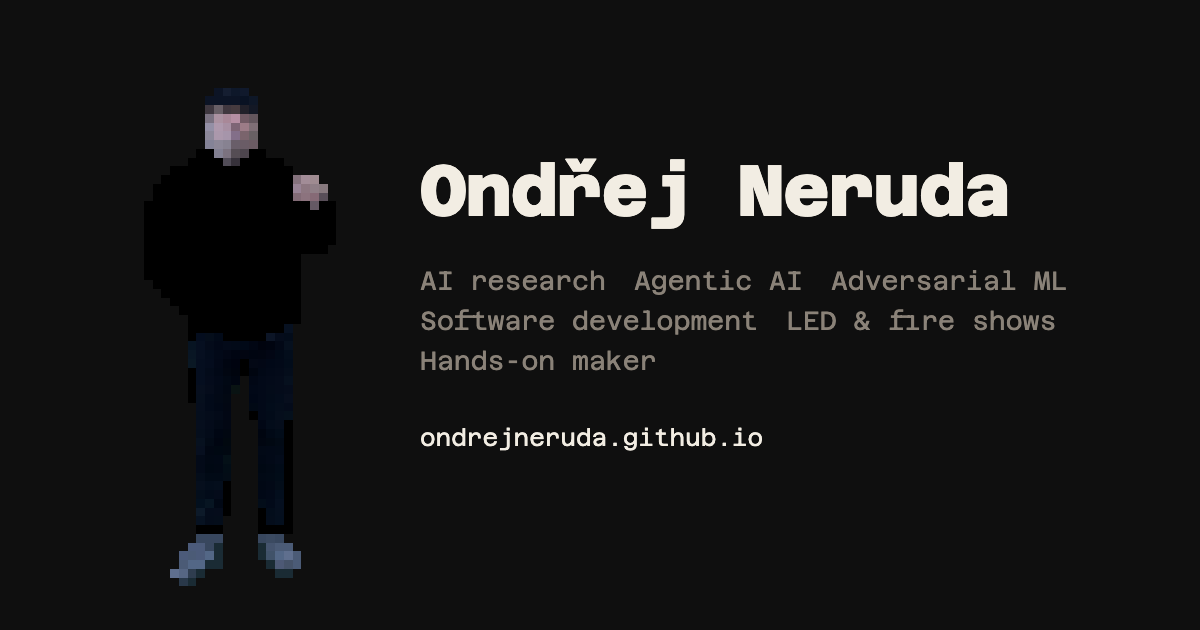
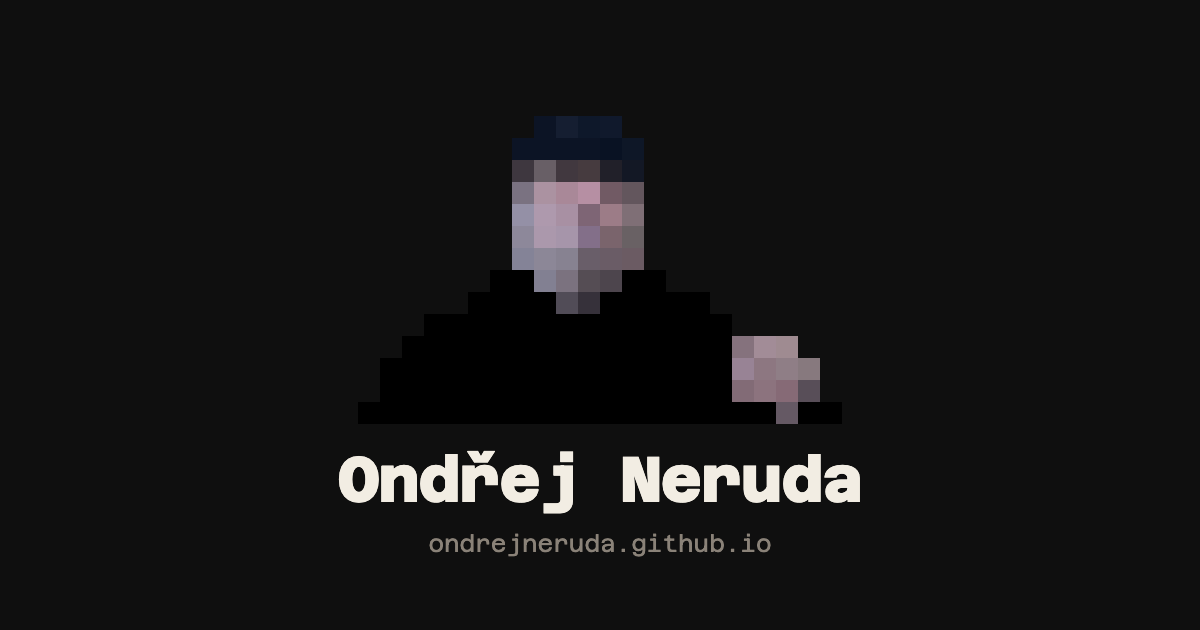
Link preview: centred head-and-shoulders portrait

diff --git a/tools/og-image.html b/tools/og-image.html
@@ -8,36 +8,35 @@
 <link rel="stylesheet" href="../assets/css/tokens.css">
 <style>
   html, body { margin: 0; width: 1200px; height: 630px; overflow: hidden; }
+  /* Centred layout, so apps that crop the preview to a square still show the face. */
   body {
     background: var(--bg);
     color: var(--text);
     font-family: var(--font-mono);
-    display: grid;
-    grid-template-columns: 360px 1fr;
+    display: flex;
+    flex-direction: column;
     align-items: center;
-    padding: 0 80px 0 60px;
-    box-sizing: border-box;
+    justify-content: center;
   }
-  .figure { height: 560px; image-rendering: pixelated; justify-self: center; }
-  h1 { margin: 0; font-size: 72px; font-weight: 800; letter-spacing: -0.02em; line-height: 1.05; }
-  ul { margin: 36px 0 0; padding: 0; list-style: none; display: flex; flex-wrap: wrap; gap: 10px 28px;
-       font-size: 26px; color: var(--text-muted); }
-  .url { margin-top: 48px; font-size: 24px; }
+  /* Head-and-shoulders crop of the 32×64 sprite: rows 4–20, columns 4–28, 22× scale. */
+  .portrait {
+    --px: 22px;
+    width: calc(24 * var(--px));
+    height: calc(16 * var(--px));
+    overflow: hidden;
+  }
+  .portrait img {
+    width: calc(32 * var(--px)); height: calc(64 * var(--px));
+    margin: calc(-4 * var(--px)) 0 0 calc(-4 * var(--px));
+    image-rendering: pixelated; display: block;
+  }
+  h1 { margin: 24px 0 0; font-size: 64px; font-weight: 800; letter-spacing: -0.02em; line-height: 1; }
+  .url { margin: 18px 0 0; font-size: 24px; color: var(--text-muted); }
 </style>
 </head>
 <body>
-  <img class="figure" src="../assets/img/hero.png" alt="">
-  <div>
-    <h1>Ondřej Neruda</h1>
-    <ul>
-      <li>AI research</li>
-      <li>Agentic AI</li>
-      <li>Adversarial ML</li>
-      <li>Software development</li>
-      <li>LED &amp; fire shows</li>
-      <li>Hands-on maker</li>
-    </ul>
-    <p class="url">ondrejneruda.github.io</p>
-  </div>
+  <div class="portrait"><img src="../assets/img/hero.png" alt=""></div>
+  <h1>Ondřej Neruda</h1>
+  <p class="url">ondrejneruda.github.io</p>
 </body>
 </html>
